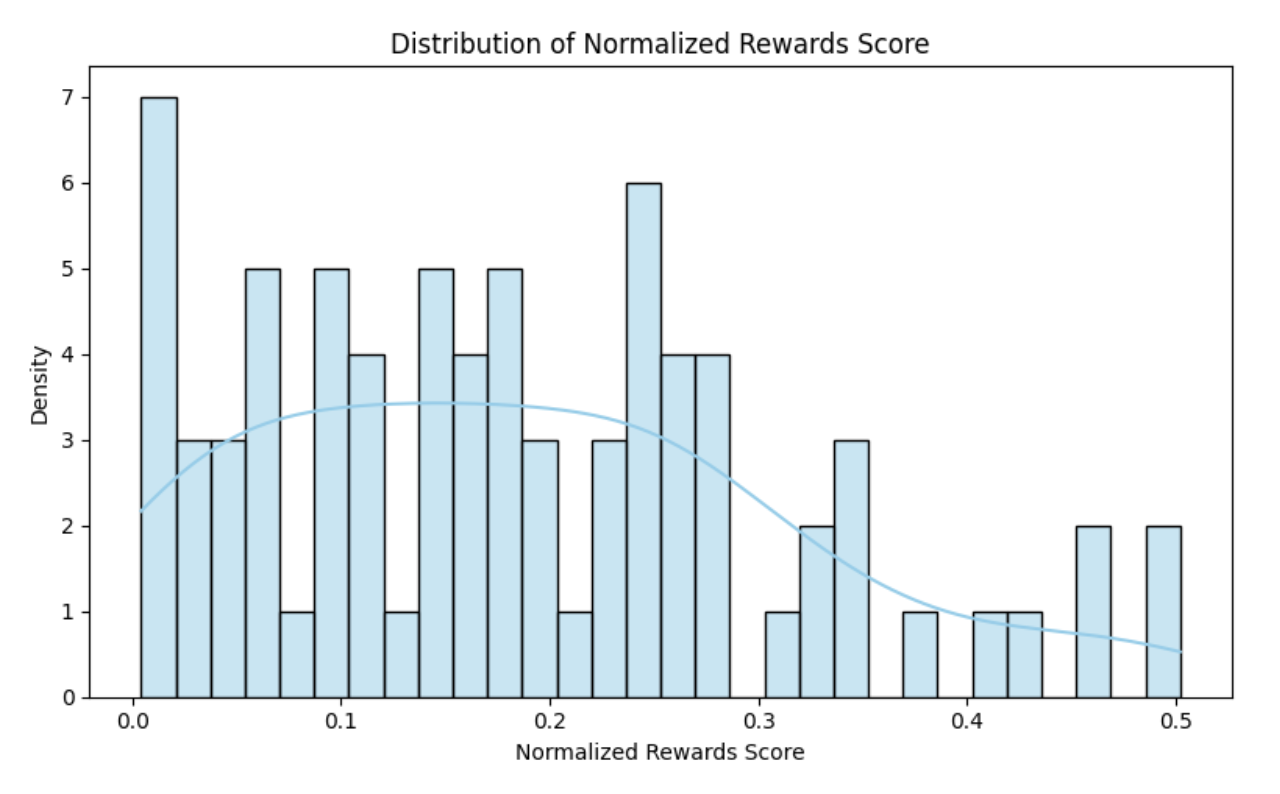
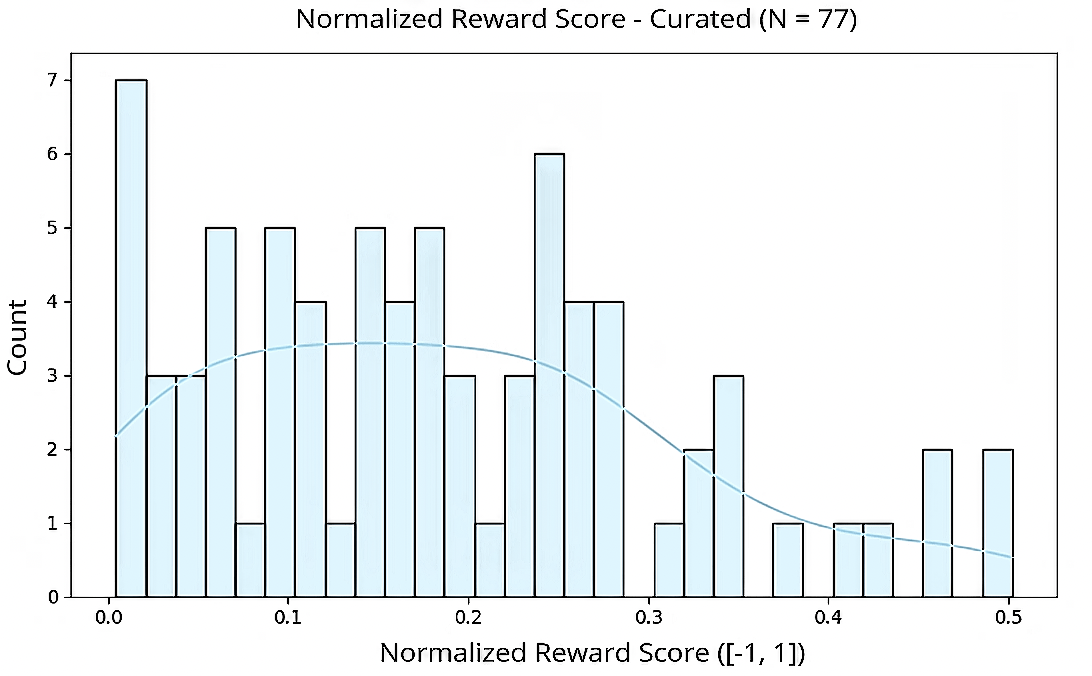
submit final version of my paper

Changed region(s): [[0.0, 0.0, 0.9652, 0.9941]]

diff --git a/papers/allison_ding/main.md b/papers/allison_ding/main.md
@@ -2,17 +2,17 @@
 # Ensure that this title is the same as the one in `myst.yml`
 title: A Lightweight Pipeline for Rewards-Guided Synthetic Text Generation Using NeMo and RAPIDS
 abstract: |
-  Synthetic data generation (SDG) plays an increasingly important role in modern machine learning workflows. It addresses the dual challenges of data scarcity and privacy constraints, which often prevent the use of real-world datasets in sensitive domains such as healthcare, law, and finance. Although progress has been made in the structured data domain, especially with tools like SDV and CTGAN, the generation of high-quality synthetic text remains a challenging and underdeveloped area. Many existing SDG pipelines lack mechanisms for semantic control, offer limited quality assurance, and are not designed with computational efficiency in mind.
+   Synthetic Data Generation (SDG) plays an increasingly important role in modern machine learning workflows. Although progress has been made in structured data—tabular data with fixed schemas—especially with tools like Synthetic Data Vault (SDV) and Conditional Tabular Generative Adversarial Network (CTGAN), the generation of high-quality synthetic text remains a challenging and underdeveloped area. Many existing SDG pipelines lack mechanisms for semantic control, offer limited quality assurance, and are not designed with computational efficiency in mind.
 
-  To address these shortcomings, we introduce a lightweight and modular pipeline designed specifically for synthetic text data generation. Our approach integrates instruction-tuned large language models (LLMs) and reward-scoring models from NVIDIA NeMo with GPU-accelerated data processing tools from the RAPIDS ecosystem. 
+   To address these shortcomings, we introduce a lightweight and modular pipeline designed specifically for synthetic text data generation. Our approach integrates instruction-tuned large language models (LLMs) and reward-scoring models from NVIDIA NeMo with GPU-accelerated data processing tools from the RAPIDS ecosystem including cuDF and cuML. 
 
-  The pipeline is implemented entirely within a Jupyter notebook, allowing for transparency, reproducibility, and ease of use. It includes stages for data cleaning, semantic deduplication, reward-guided generation, and iterative data augmentation. It leverages RAPIDS libraries to accelerate operations such as clustering and filtering, enabling large-scale experimentation. Empirical results from applying this pipeline to a legal QA dataset demonstrate improved data quality, enhanced semantic diversity, and efficient execution on GPU hardware. The solution is designed to be accessible to data scientists who may not specialize in LLM development, thereby filling a crucial usability gap in the SDG landscape.
+   The pipeline is implemented entirely within a Jupyter Notebook, allowing for transparency, reproducibility, and ease of use. It includes stages for data cleaning, semantic deduplication, reward-guided generation, and iterative data augmentation. It leverages RAPIDS libraries to accelerate operations such as clustering and filtering, enabling large-scale experimentation. Empirical results from applying this pipeline to a legal QA dataset demonstrate improved data quality, enhanced semantic diversity, and efficient execution on GPU hardware. The solution is designed to be accessible to data scientists who may not specialize in LLM development, thereby filling a crucial usability gap in the SDG landscape.
 
 ---
 
 ## Introduction
 
-Synthetic data is indispensable for developing machine learning models, when real data is scarce, sensitive, or restricted by privacy regulations. The ability to generate realistic, high-quality synthetic samples enables model development, fine-tuning, and benchmarking without exposing sensitive content. In structured domains, tools such as SDV, CTGAN, and Gretel have emerged as practical solutions for generating tabular data that preserves statistical properties while mitigating privacy risks [@patki2016sdv;@sdv2020]. However, the generation of unstructured or semi-structured data, such as synthetic text, presents a far greater challenge. This complexity arises from the inherently semantic nature of language, which makes quality difficult to assess and even harder to enforce.
+Synthetic data is indispensable for developing machine learning models, when real data is scarce, sensitive, or restricted by privacy regulations. The ability to generate realistic, high-quality synthetic samples enables model development, fine-tuning, and benchmarking without exposing sensitive content. In structured data domains, tools such as SDV, CTGAN, and Gretel have emerged as practical solutions for generating tabular data that preserves statistical properties while mitigating privacy risks [@patki2016sdv;@sdv2020]. However, the generation of unstructured text or semi-structured data (with flexible, implicit schemas), such as synthetic text, presents a far greater challenge. This complexity arises from the inherently semantic nature of language, which makes quality difficult to assess and even harder to enforce.
 
 Text generation pipelines face several limitations that reduce their utility in practical workflows. First, many systems rely on large language models without sufficient post-generation validation, resulting in outputs that may be fluent but semantically irrelevant or redundant. Second, few pipelines offer robust mechanisms to filter out low-quality or factually incorrect samples, which is essential when synthetic data is meant to support downstream tasks such as supervised learning or knowledge extraction. Third, most available implementations are not optimized for interactive or scalable use, often lacking GPU acceleration or modularity for iteration and analysis.
 
@@ -20,7 +20,7 @@ To address these gaps, we introduce a pipeline that is reward-aware, reproducibl
 
 ## Background and Related Work
 
-Structured data generation has seen considerable progress, with tools like SDV, CTGAN, and Gretel offering accessible APIs and statistical validation mechanisms [@patki2016sdv;@sdv2020]. These systems have enabled synthetic data use in regulated environments such as healthcare and financial services. In contrast, synthetic text generation has largely been approached through either simple prompt-based generation using pretrained LLMs [@wolf2020transformers] or through more complex reinforcement learning pipelines, such as reinforcement learning with human feedback (RLHF). Both approaches have their strengths but also introduce new challenges in terms of complexity, reproducibility, and cost.
+Structured data generation has seen considerable progress, with tools like SDV, CTGAN, and Gretel offering accessible APIs and statistical validation mechanisms [@patki2016sdv;@sdv2020]. These systems have enabled synthetic data use in regulated environments such as healthcare and financial services. In contrast, synthetic text generation has largely been approached through either simple prompt-based generation using pretrained LLMs [@wolf2020transformers] or through more complex reinforcement learning pipelines, such as reinforcement learning with human feedback (RLHF) [@christiano2017;@ouyang2022]. Both approaches have their strengths but also introduce new challenges in terms of complexity, reproducibility, and cost.
 
 Prompt-based pipelines are typically easy to initiate but provide limited control over output quality. Without built-in validation or filtering, the generated text can be inconsistent, incoherent, or repetitive. On the other hand, RLHF frameworks introduce reward models that evaluate generated outputs, allowing quality-guided training or generation. However, implementing RLHF involves substantial engineering efforts, including reward function design, reinforcement learning infrastructure, and hyperparameter tuning, which make it impractical for many real-world cases.
 
@@ -43,10 +43,16 @@ The Synthetic Text Generation Pipeline
 
 ### Data Loading and Cleaning
 
-The initial stage involves loading raw data, typically stored in JSONL format. The dataset we use as an example contains question-answer pairs and optional metadata such as titles, tags, or confidence scores. The data then undergoes a multi-step cleaning process to remove HTML tags, correct malformed Unicode characters, and apply filters based on word count and quality scores. For example, questions and answers are retained only if their lengths fall within acceptable ranges and their associated scores exceed a defined threshold. This step is crucial for establishing a high-quality seed set and preventing malformed data from degrading the performance of downstream generating and scoring models. NeMo Curator supports several heuristic filters that you can choose to clean your data.  
+The initial stage involves loading raw data, typically stored in JSON Lines (JSONL). The dataset we use as an example contains question-answer pairs and optional metadata such as titles, tags, or confidence scores. 
+
+**_Examples from the legal QA dataset._**  
+*Q: What is the difference between a bench trial and a jury trial?*  
+*A: In a bench trial the judge is the fact-finder, whereas in a jury trial the jury determines the facts while the judge rules on matters of law.*  
+
+The data then undergoes a multi-step cleaning process to remove HTML tags, correct malformed Unicode characters, and apply filters based on word count and quality scores. For example, questions and answers are retained only if their lengths fall within acceptable ranges and their associated scores exceed a defined threshold. This step is crucial for establishing a high-quality seed set and preventing malformed data from degrading the performance of downstream generating and scoring models. NeMo Curator supports heuristic filters such as length constraints and reward-score thresholds to eliminate low-information or off-topic samples, improving both embedding quality and reward scoring. 
 
 ```python
-# Data Loading
+# Load JSONL data and preview schema
 
 # Import data
 import pandas as pd
@@ -59,7 +65,7 @@ dataset = pd.read_json(
 )
 ```
 ```python
-# Data Cleaning Functions
+# Define HTML/Unicode cleaners and simple filters
 
 from bs4 import BeautifulSoup
 import re
@@ -94,7 +100,7 @@ def filter_low_score(score, threshold=0):
    return score >= threshold
 ```
 ```python
-# Data Cleaning Pipeline
+# Apply row-wise cleaning and content filters
 
 def clean_filter_by_row(row):
    # Clean + fix each text field
@@ -119,33 +125,49 @@ def data_clean(dataset):
 
 ### Semantic Deduplication
 
-To avoid training or evaluating models on semantically repetitive content, we implement a deduplication step based on sentence embeddings. Each record is converted into a single textual representation by concatenating the title, question, and answer fields. Sentence embeddings are computed using a pretrained SentenceTransformer model and normalized using CuPy to enable efficient GPU operations. K-Means clustering is then applied in the embedding space to identify groups of similar samples. Within each cluster, cosine similarity is used to identify redundant records. Those with high proximity to the cluster centroid are marked for removal. This process significantly improves content diversity and reduces the likelihood of overfitting in downstream tasks.
+To avoid training or evaluating models on semantically repetitive content, we implement a deduplication step based on sentence embeddings. Each record is converted into a single textual representation by concatenating the title, question, and answer fields. Sentence embeddings are computed using a pretrained SentenceTransformer model and normalized using CuPy to enable efficient GPU operations. K-Means clustering is then applied in the embedding space to identify groups of similar samples. Within each cluster, cosine similarity is used to identify redundant records. Those with high proximity to the cluster centroid are marked for removal. This process significantly improves content diversity and reduces the likelihood of overfitting in downstream tasks. We define “duplicate” as two samples whose concatenated title, question, and answer embeddings have cosine similarity ≥ 0.99 within the same K-Means cluster. 
+
+While deduplication is crucial to reduce redundancy and overfitting, very aggressive thresholds can prune in-domain paraphrases or stylistic variations that are valuable for robustness. To mitigate this, we (i) experiment with variable similarity thresholds across data subsets (e.g., by topic/source/length) and (ii) perform human-in-the-loop auditing on a stratified sample to calibrate the operational definition of “semantic duplicate.” These safeguards help retain informative variation while removing true repeats.
+
+
+**_Examples from the legal QA dataset._**  
+*Removed as near-duplicates (≥ 0.99):*  
+*Q1: How does a bench trial differ from a jury trial?*  
+*Q2: Bench vs. jury trial—who determines the facts?*  
+*Kept as non-duplicates (< 0.99):*  
+*Q1: When can a defendant waive the right to a jury trial?*  
+*Q2: Can a judge overturn a jury verdict?*  
+
+In tie cases, we retain the item farthest from the cluster centroid to preserve variety. This procedure improves content diversity and reduces overfitting risk in downstream tasks while avoiding the removal of useful paraphrases. 
 
 ```python
-# Semantic Dedupe
+# Compute embeddings, cluster with K-Means, and mark near-centroid duplicates
 
-def semantic_dedupe(dataset):
+def semantic_dedupe(dataset, n_clusters = 1000, eps_to_extract = 0.01):
    dataset["text"] = dataset["title"] + dataset["question"] + dataset["answer"]
+
 
    # Generate normalized sentence embeddings
    from sentence_transformers import SentenceTransformer
    import cupy as cp
 
+
    model = SentenceTransformer("all-MiniLM-L6-v2")
    embeddings = model.encode(dataset["text"].tolist(), batch_size = 128, show_progress_bar = True, convert_to_numpy = True)
    embeddings_norm = cp.array(embeddings)/cp.linalg.norm(cp.array(embeddings), axis = 1, keepdims = True)
+
 
    # Perform KMeans with cosine normalization (Euclidean KMeans on normalized vectors)
    from sklearn.cluster import KMeans
    from sklearn.metrics.pairwise import cosine_similarity
 
-   n_clusters = 1000
+
    kmeans = KMeans(n_clusters = n_clusters, random_state = 1234, max_iter = 100)
    labels = kmeans.fit_predict(embeddings_norm)
    centroids = kmeans.cluster_centers_
 
+
    # Deduplication logic (find points within eps_to_extract)
-   eps_to_extract = 0.01
    dedup_indices = []
    for cluster_id in range(n_clusters):
        cluster_points = cp.where(cp.array(labels) == cluster_id)[0]
@@ -157,6 +179,7 @@ def semantic_dedupe(dataset):
        sims = cosine_similarity(cluster_embeddings, centroid).flatten()
        within_eps = cluster_points[sims >= (1 - eps_to_extract)]
 
+
        if len(within_eps) > 0:
            dedup_indices.extend(within_eps)
   
@@ -164,16 +187,22 @@ def semantic_dedupe(dataset):
    mask = dataset.index.isin(dedup_indices)
    kept_data = dataset[~mask]
 
+
    # Drop the added column
    dataset.drop("text", axis = 1, inplace = True)
    kept_data.drop("text", axis = 1, inplace = True)
 
+
    return kept_data
 ```
+
+In the above code snippet, n_clusters (also written as k) is the number of K-Means clusters used to pre-group records in embedding space before duplicate checks; it controls granularity (larger k → finer, more homogeneous groups; smaller k → coarser groups). eps_to_extract (ε) is a within-cluster proximity/similarity threshold for marking items as redundant (e.g., “duplicate if cosine similarity ≥ τ” or “duplicate if distance to the centroid ≤ ε”), which controls how aggressively near-duplicates are removed. Both are user-tunable hyperparameters; appropriate values depend on corpus size, diversity, and the desired precision-recall trade-off for deduplication. Our implementation exposes both as configuration options so readers can adjust them without changing the pipeline.
 
 ### Synthetic Data Generation with Rewards
 
 Synthetic text generation is performed using the Llama 3.1 Nemotron 70B instruct model, which supports tasks such as question generation and paraphrasing. Prompt templates are designed for three specific functions: generating questions from answers, paraphrasing questions, and paraphrasing answers. For each function, the generator outputs a candidate sample that is then evaluated by the Llama 3.1 Nemotron 70B Reward model. This reward model assigns a scalar score reflecting the overall quality of the text. Only those samples with scores falling within a specified range are retained. This scoring function enables automated quality control and reduces reliance on manual inspection or external validation. Notably, the Llama 3.1 Nemotron 70B Reward model is ranked No. 1 on the Hugging Face RewardBench leaderboard as of October 1, 2024 [@huggingface2024rewardbench], outperforming competing reward models across overall, chat, safety, and reasoning categories.
+
+Although our experiments use NVIDIA Nemotron models for both generation and reward scoring, the pipeline is model-agnostic: the generator and reward model are accessed through the same chat-completion interface and can be replaced by any instruction-tuned LLM and any scalar-scoring reward model that expose comparable APIs. Practically, portability requires (i) an instruction-following endpoint with controllable sampling (temperature, top_p, optional seed), (ii) sufficient context length for our prompts, and (iii) a reward signal, either a native reward model or a proxy judge that outputs a single scalar per sample. To remain robust across models, we store raw scores and apply per-model score normalization, selecting candidates by percentile thresholds rather than absolute cutoffs. Prompts are maintained as templated strings and versioned, so swapping models is a configuration change rather than a code change.
 
 ```python
 # Synthetic Data Generation with Rewards
@@ -224,6 +253,7 @@ def build_synthetic_row(row, i, gen_question, gen_answer, gen_title, rewards_nor
    }
 
 def SDG(dataset, sample_size_perc=0.001, rewards_threshold=0, n_variants=1):
+   # Sample rows, generate/paraphrase Q&As, generate reward scores, filter by threshold, and return curated synthetic pairs as a DataFrame.
    import random
    import pandas as pd
 
@@ -295,20 +325,20 @@ The complete pipeline integrates all components into an iterative loop. The proc
 ```python
 # Synthetic Data Generation Pipeline
 
-def SDG_Rewards_Pipeline(dataset, round_num, sample_size_perc = 0.001, rewards_threshold = 0, n_variants = 1):
+def SDG_Rewards_Pipeline(dataset, round_num, n_clusters = 1000, eps_to_extact = 0.01, sample_size_perc = 0.001, rewards_threshold = 0, n_variants = 1):
 
    cleaned_dataset = data_clean(dataset)
-   deduped_dataset = semantic_dedupe(cleaned_dataset)
+   deduped_dataset = semantic_dedupe(dataset, n_clusters = n_clusters, eps_to_extract = eps_to_extact)
    print(f"After the initial curation, the dataset has {len(deduped_dataset)} records (originally {len(dataset)}).")
       
    dataset = deduped_dataset
    for num in range(round_num):
       
-       sdg_dataset = SDG(dataset, sample_size_perc = sample_size_perc, rewards_threshold = rewards_threshold, n_variants = n_variants)
-       dataset = pd.concat([dataset, sdg_dataset], axis = 0, ignore_index = True)
-       deduped_dataset = semantic_dedupe(dataset)
+      sdg_dataset = SDG(dataset, sample_size_perc = sample_size_perc, rewards_threshold = rewards_threshold, n_variants = n_variants)
+      dataset = pd.concat([dataset, sdg_dataset], axis = 0, ignore_index = True)
+      deduped_dataset = semantic_dedupe(dataset)
 
-       print(f"After round {num + 1}, the dataset has {len(deduped_dataset)} records (originally {len(dataset)})")
+      print(f"After round {num + 1}, the dataset has {len(deduped_dataset)} records (originally {len(dataset)})")
       
    return deduped_dataset
 ```
@@ -317,13 +347,21 @@ def SDG_Rewards_Pipeline(dataset, round_num, sample_size_perc = 0.001, rewards_t
 
 To support high throughput execution, the pipeline uses GPU acceleration for key operations through RAPIDS libraries such as cuDF and cuML [@rapids2023]. With cuDF, common pandas DataFrame operations, including filtering, joining, and aggregating, can be seamlessly accelerated on the GPU. With cuML, machine learning algorithms such as K-Means clustering also benefit from GPU acceleration, resulting in significant reductions in execution time.
 
-Users can enable this acceleration by simply loading the RAPIDS extensions at the beginning of their notebooks, without needing to modify their existing pandas or scikit-learn code. This transparent acceleration allows the pipeline to interactively process tens of thousands or even millions of records, making it practical for rapid prototyping as well as scalable production workflows.
+Users can enable this acceleration by simply loading the RAPIDS extensions at the beginning of their Jupyter Notebook or JupyterLab, without needing to modify their existing pandas or scikit-learn code. This transparent acceleration allows the pipeline to interactively process tens of thousands or even millions of records, making it practical for rapid prototyping as well as scalable production workflows.
 
 ```python
-# Activate GPU Acceleration of cuML and cuDF
+# Activate GPU Acceleration of cuML and cuDF in Jupyter Notebook or JupyterLab
 
 %load_ext cuml.accel
 %load_ext cudf.pandas
+```
+
+For terminal workflows, users can run the same code as a script with the CLI, which activates both the cuML accelerator and the cuDF pandas accelerator for the session.
+
+```python
+# Activate GPU Acceleration of cuML and cuDF in the terminal
+
+python -m cudf.pandas -m cuml.accel sgd.py
 ```
 
 ## Experiments and Results
@@ -340,66 +378,43 @@ The pipeline was configured to run for 10 rounds, each involving the generation 
 
 As shown in the table, each round resulted in a modest increase in the dataset size before deduplication. For example, after round 1, the dataset increased from 12,244 to 12,251 records. This pattern continued across all 10 iterations, with post-generation counts ranging from 12,251 to 12,321. After each merge, semantic deduplication was applied, bringing the dataset size down, confirming that only non-redundant and unique samples were retained.
 
-```{list-table}
-:label: tbl:sdg
-:header-rows: 1
-* - Round
-  - Original Records (Pre-Dedup)
-  - Records After Dedup
-* - Initial
-  - 19,474
-  - 12,244
-* - 1
-  - 12,251
-  - 12,248
-* - 2
-  - 12,257
-  - 12,257
-* - 3
-  - 12,266
-  - 12,264
-* - 4
-  - 12,274
-  - 12,271
-* - 5
-  - 12,285
-  - 12,282
-* - 6
-  - 12,293
-  - 12,291
-* - 7
-  - 12,301
-  - 12,300
-* - 8
-  - 12,310
-  - 12,309
-* - 9
-  - 12,313
-  - 12,311
-* - 10
-  - 12,321
-  - 12,317
-```
+| Round    | Original Records (Pre-Dedup) | Records After Dedup |
+|:--------:|:----------------------------:|:-------------------:|
+| Initial  |        19,474                |      12,244         |
+| 1        |        12,251                |      12,248         |
+| 2        |        12,257                |      12,257         |
+| 3        |        12,266                |      12,264         |
+| 4        |        12,274                |      12,271         |
+| 5        |        12,285                |      12,282         |
+| 6        |        12,293                |      12,291         |
+| 7        |        12,301                |      12,300         |
+| 8        |        12,310                |      12,309         |
+| 9        |        12,313                |      12,311         |
+| 10       |        12,321                |      12,317         |
 
-This process illustrates the effectiveness of the deduplication step.
-Across all 10 rounds, redundant content introduced during generation was
-systematically identified and removed. Despite generating over 400
-synthetic candidates in accumulation, the dataset size only increased slightly, reflecting strict enforcement of semantic quality constraints. 
+
+This process illustrates the effectiveness of the deduplication step. Across all 10 rounds, redundant content introduced during generation was
+systematically identified and removed. Despite generating over 400 synthetic candidates in accumulation, the dataset size only increased slightly, reflecting strict enforcement of semantic quality constraints. 
 
 ### Visual Outputs
 
-Reward score histograms further supported the filtering logic by revealing clustering around acceptable normalized reward thresholds and removal of semantically duplicated phrasing. These visualizations confirm that the semantic filter is not only size-preserving but also meaningfully content-selective.
+Raw vs Curated. Figure 2 (raw dataset, N=19,474) and Figure 3 (curated dataset, N=77) compare the distribution of the normalized reward score before and after curation. The raw set shows a broad, roughly unimodal spread from ≈−0.8 to 0.8 with a mode slightly right of zero and a positive tail to ~0.7–0.8, reflecting high variability in quality. By contrast, the curated set eliminates negatives and concentrates mass in 0.0–0.5 (peaking ~0.10–0.25) with reduced variance—a clear rightward shift.
 
-The plots below compare the normalized rewards score distribution of the raw dataset (19,474 records) with the normalized rewards score distribution of the curated dataset (77 records). The raw dataset shows a broad and dense distribution across scores, reflecting high variability in quality. In contrast, the curated dataset demonstrates a much more concentrated score distribution, highlighting a focus on higher coherence, factual correctness, and overall content quality. The higher normalized reward scores in the curated dataset illustrate the effectiveness of the semantic filtering and reward-based selection in retaining only the most valuable and accurate samples.
+These visualizations support the filtering logic: clustering and semantic deduplication remove repeated phrasing, and reward-based selection favors higher-coherence, factually correct content. In short, the procedure is content-selective rather than merely size-reducing, retaining the most valuable and accurate samples for downstream use.
+
+In the raw dataset (Figure 2), the normalized reward score is broadly distributed (≈−0.8 to +0.8) with a single mode slightly right of zero. Density peaks near 0.1 and stays substantial through ~0.3–0.4; negatives are thinner, while the positive tail extends farther (to ~0.7–0.8). Overall, the raw set skews mildly positive, with many mid-quality samples and few extreme outliers.
 
 :::{figure} Figure2.png
 :label: fig:raw
-Normalized Rewards Score Distribution of Raw Data
+Normalized Reward Score Distribution of Raw Data
 :::
+
+In the curated dataset (Figure 3), the distribution concentrates at higher scores (≈0.0–0.5), eliminating negatives and tightening the spread. Density peaks around 0.10–0.25, then declines with a thin right tail to ~0.5; relative to the raw set, it’s right-shifted and less variable, indicating curation favored higher-reward examples.
 
 :::{figure} Figure3.png
 :label: fig:curated
-Normalized Rewards Score Distribution of Curated Data
+:scale: 75%
+Normalized Reward Score Distribution of Curated Data
 :::
 
 ## Conclusions
